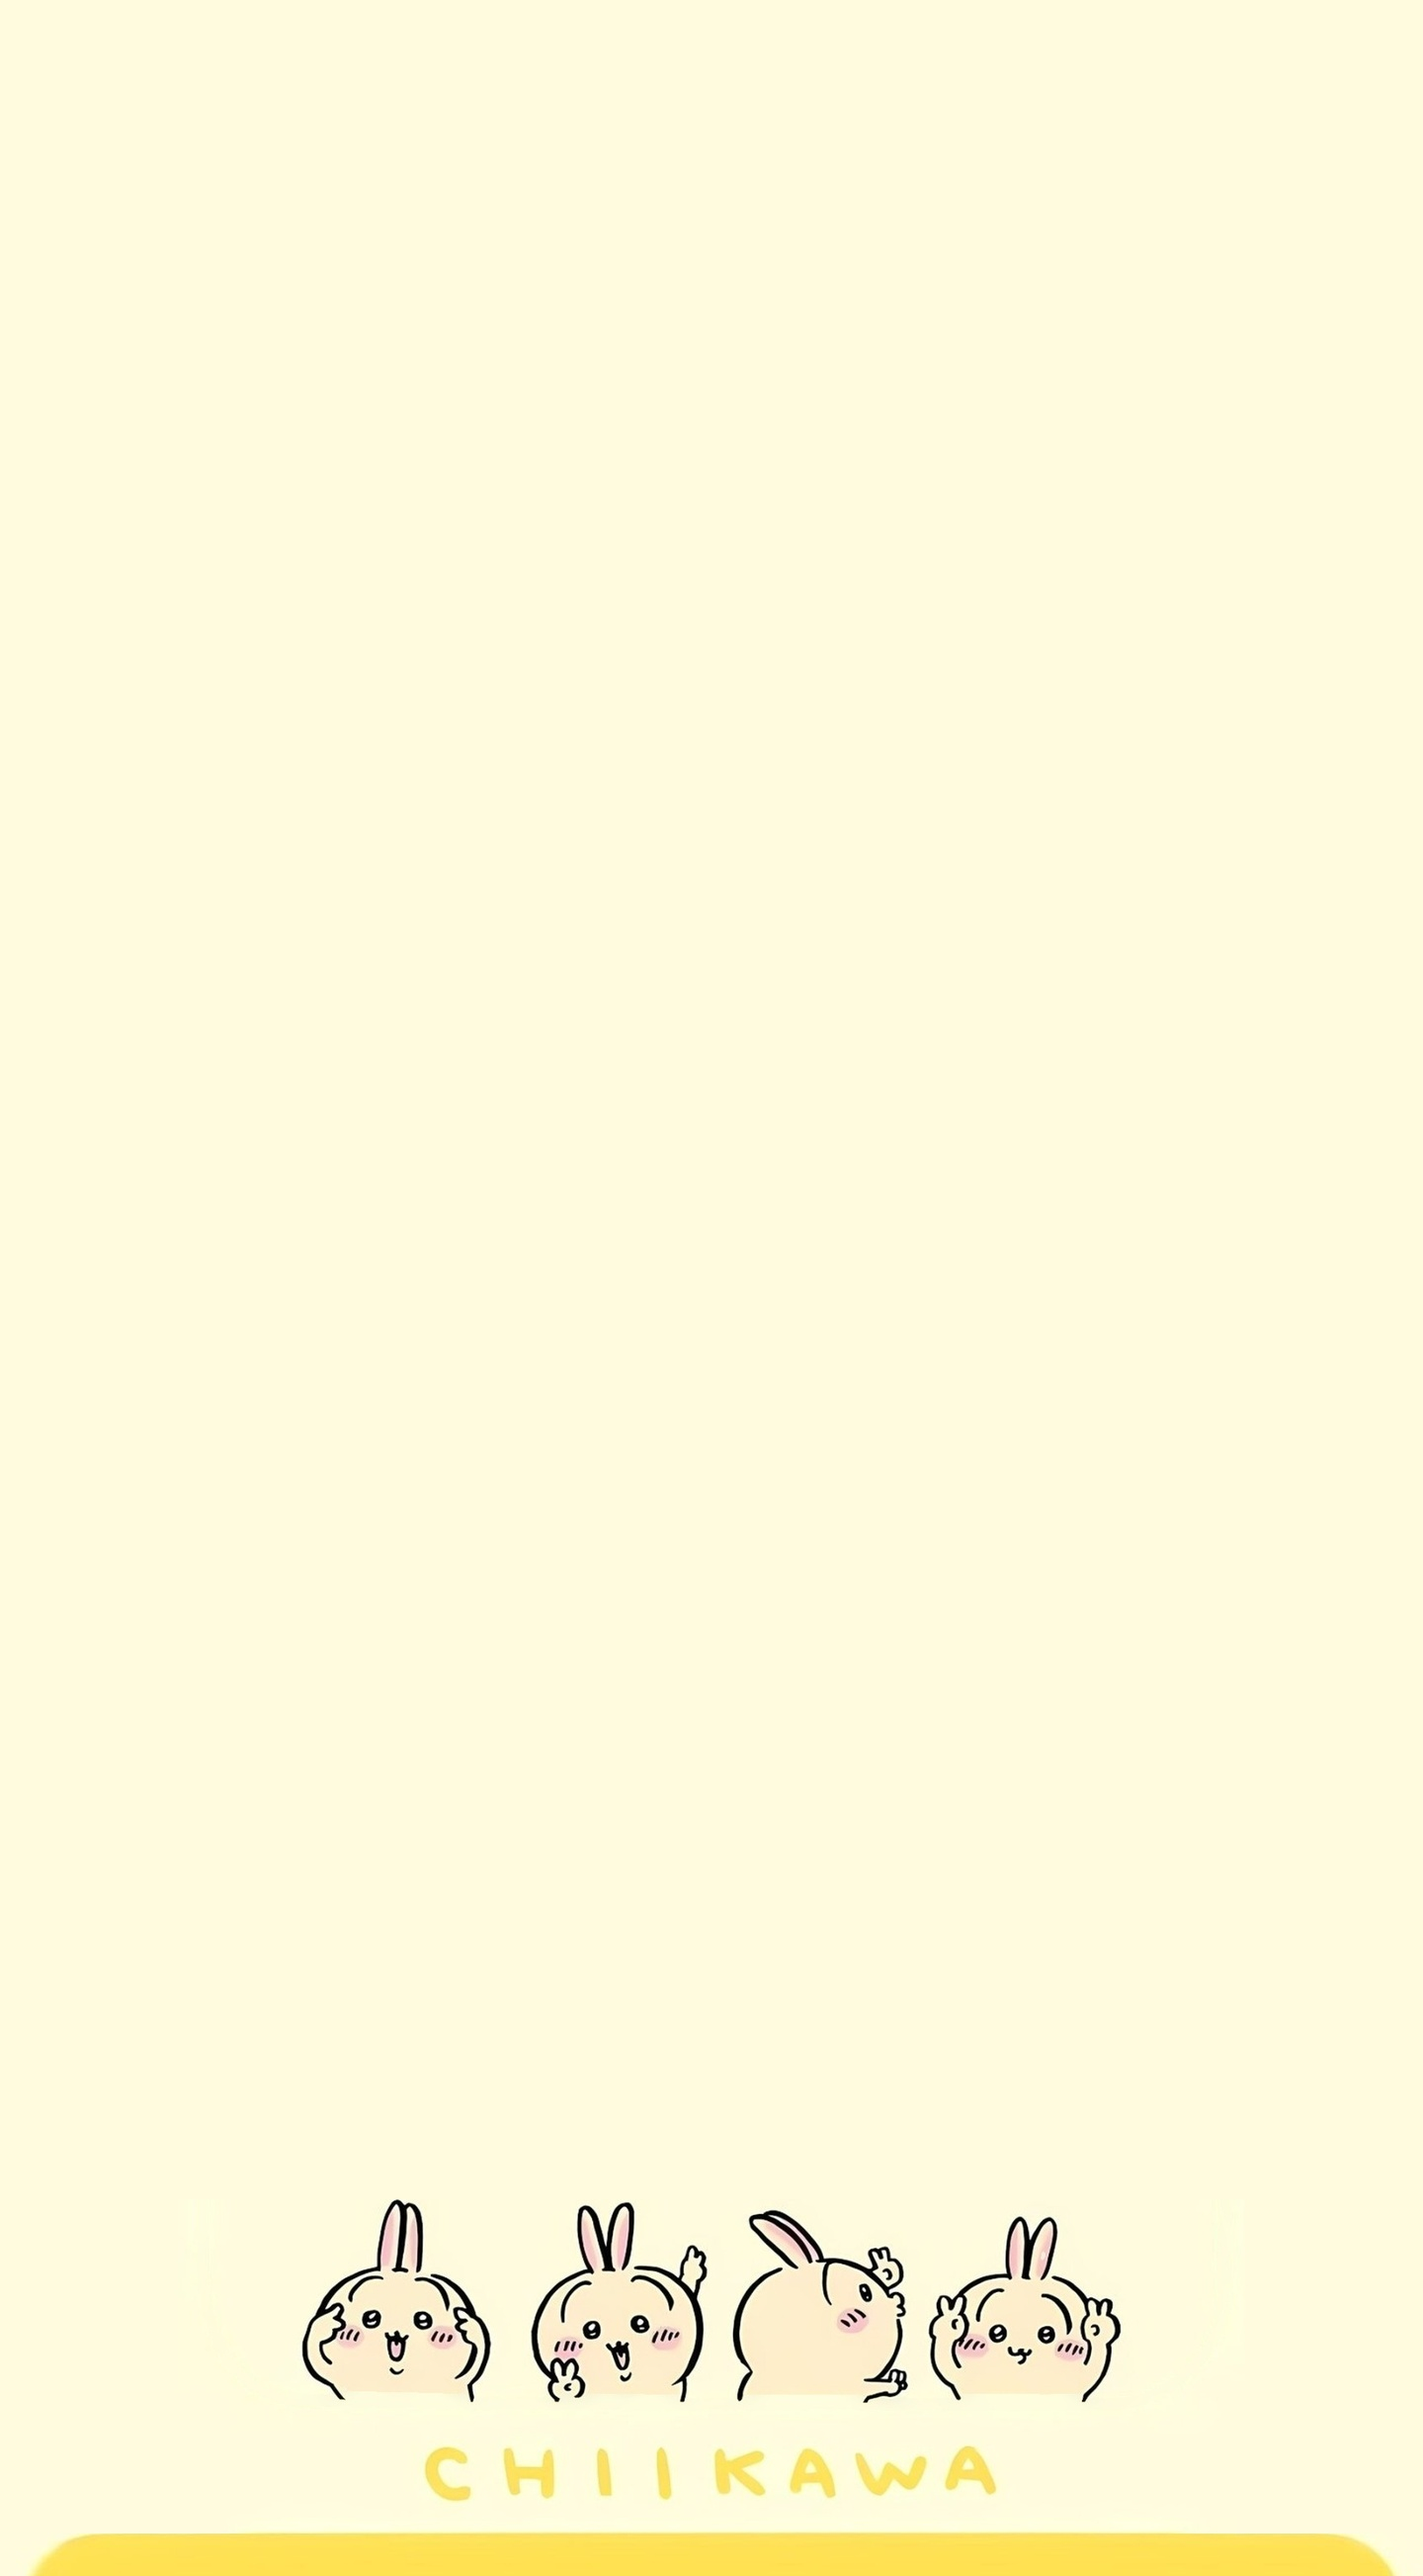
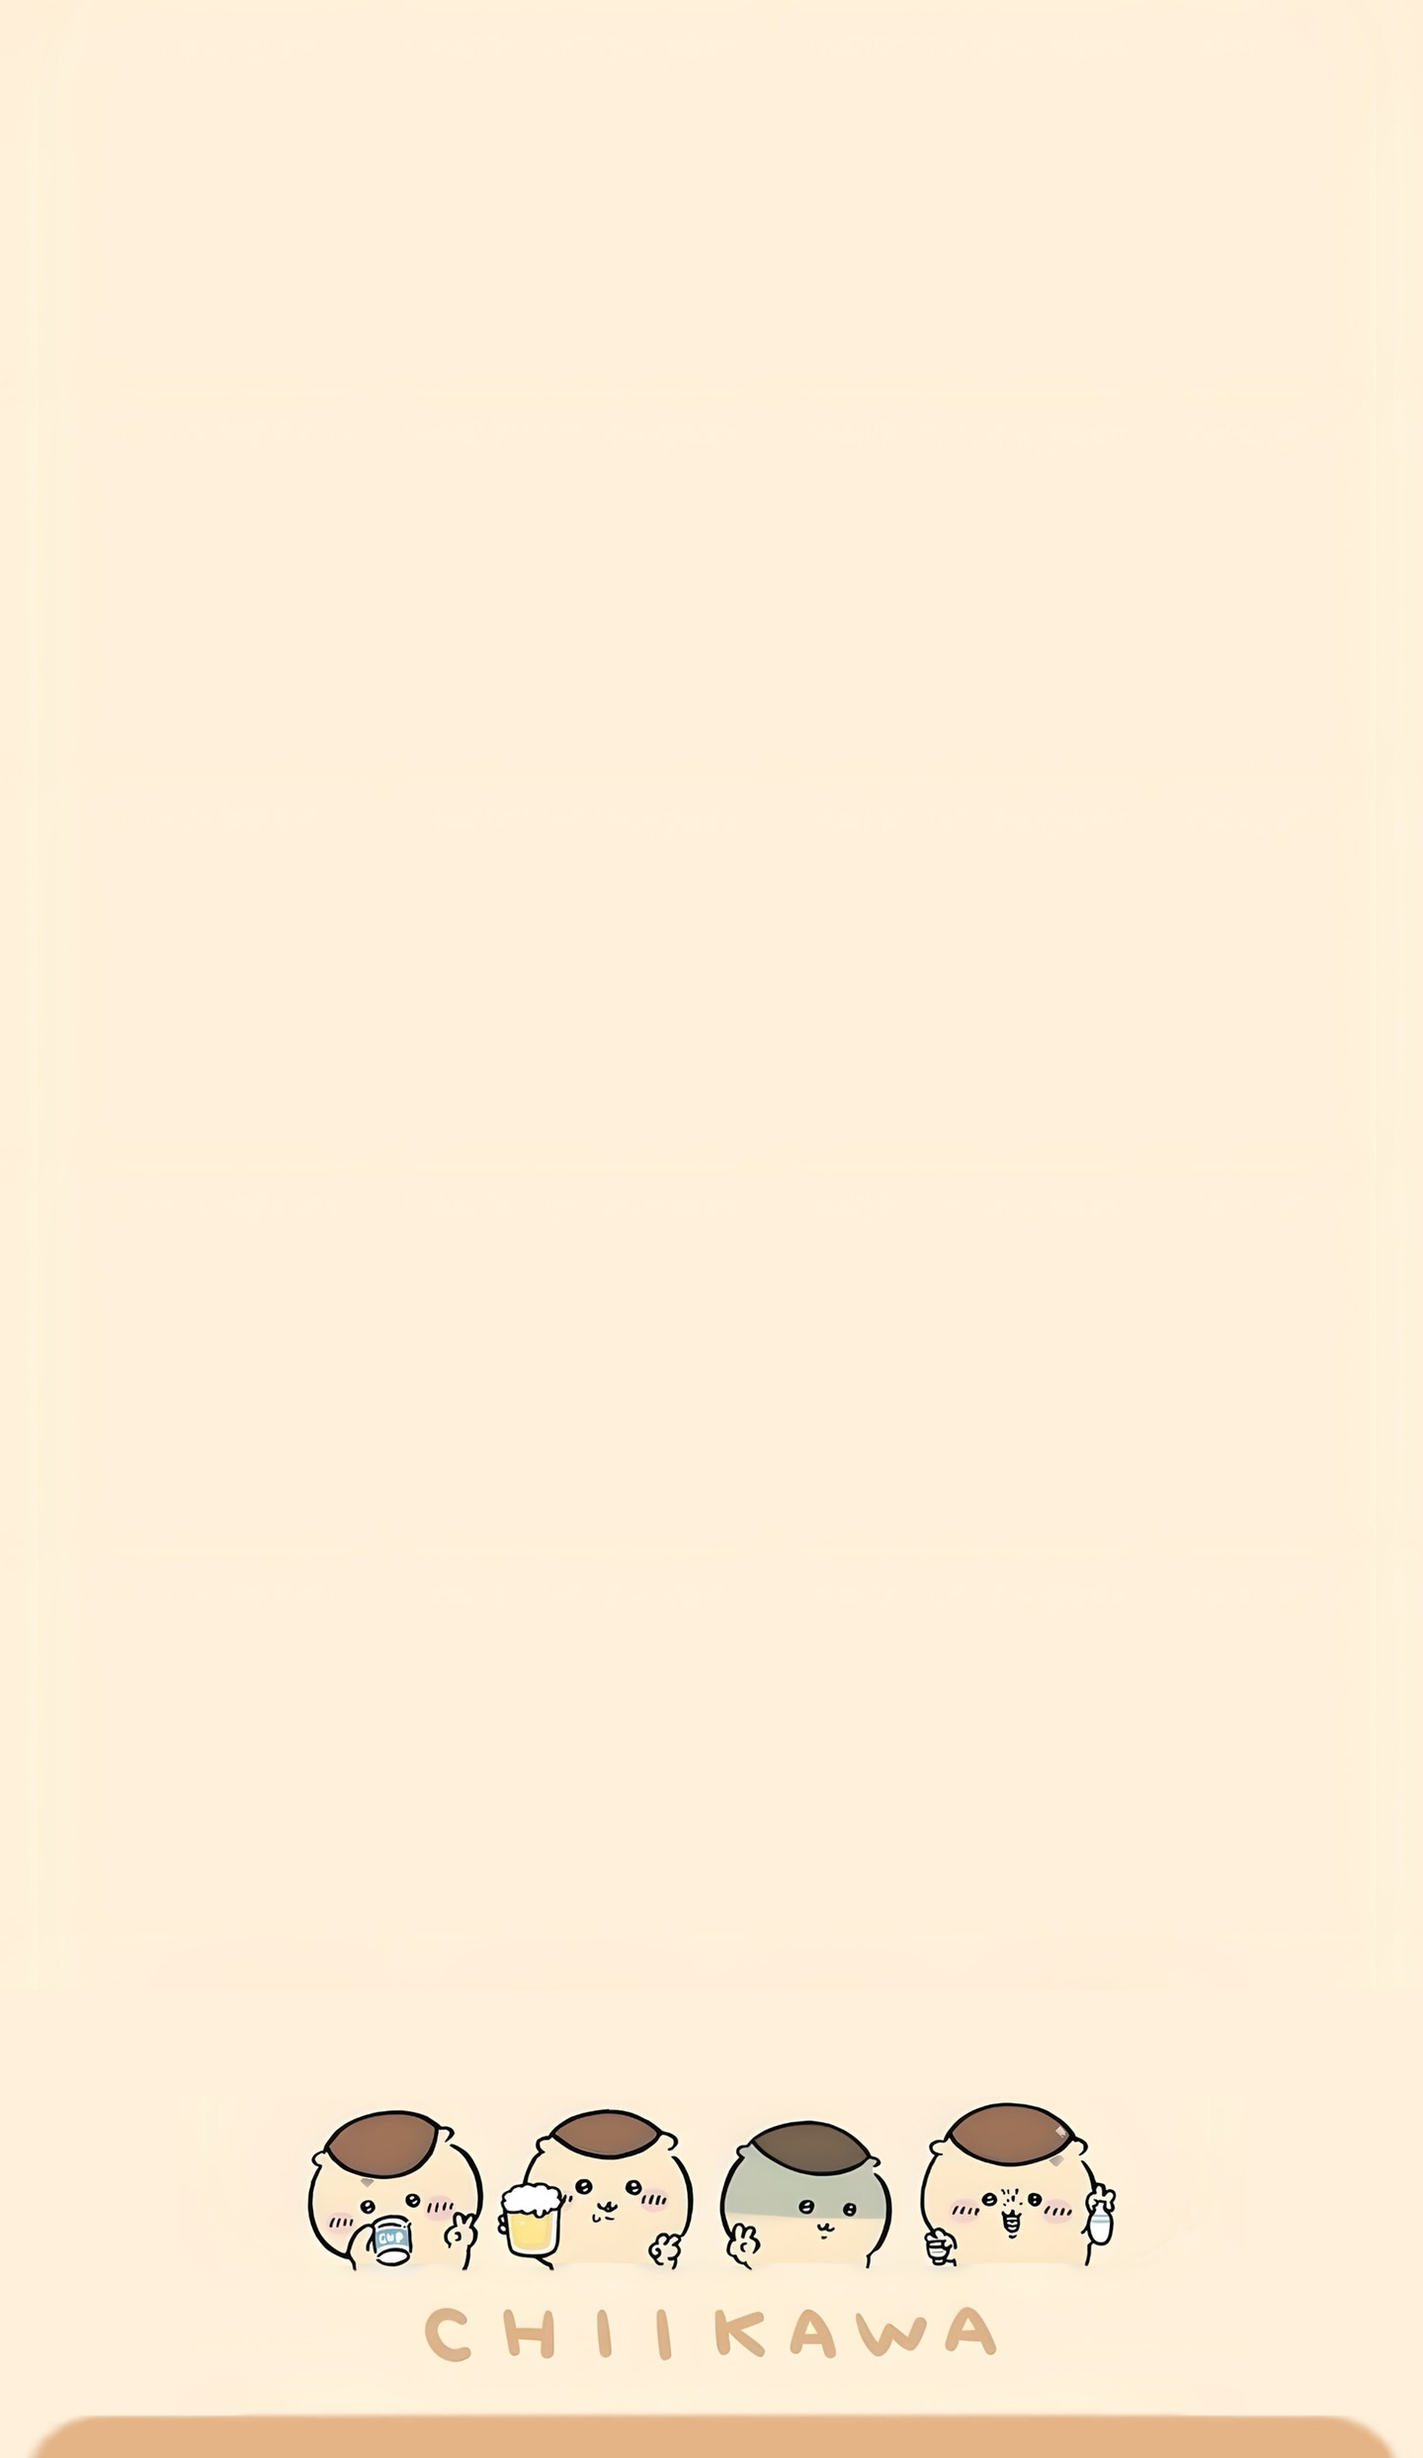
쿠리만쥬 테마: 첫 화면·목록 배경·채팅방 배경 교체, 크림·밤색 팔레트 적용
Claude-Session: https://claude.ai/code/session_01LwbuasUuUkD9mihd6ZAb4P

Changed region(s): [[0.0, 0.8363, 1.0, 1.0]]

diff --git a/scripts/apply_images.py b/scripts/apply_images.py
@@ -71,7 +71,12 @@ for key, targets in FULL.items():
         continue
     src = load(p)
     for folder, w, h in targets:
-        if key == "background":
+        if key == "splash" and w > h:
+            # 가로 화면 첫 화면: 잘리지 않게 세로 그림을 가운데 두고 양옆은 가장자리 색으로 채움
+            img = Image.new("RGBA", (w, h), src.convert("RGB").getpixel((5, 5)) + (255,))
+            fit = ImageOps.contain(src, (w, h), Image.LANCZOS)
+            img.alpha_composite(fit, ((w - fit.width) // 2, (h - fit.height) // 2))
+        elif key == "background":
             # 카톡은 목록 배경을 화면 너비에 맞추고 하단(탭 바 위)에 붙여서 보여줌 → 비율 유지
             img = src.resize((w, round(w * src.height / src.width)), Image.LANCZOS)
         else:
@@ -118,7 +123,7 @@ for n in range(1, 5):
 p = find("app_icon")
 if p:
     src = load(p)
-    ICON_BG = (255, 247, 220, 255)  # 투명한 부분을 채울 아이콘 배경색 (크림)
+    ICON_BG = (255, 240, 219, 255)  # 투명한 부분을 채울 아이콘 배경색 (크림 베이지)
     for dens, s in (("mdpi", 48), ("hdpi", 72), ("xhdpi", 96), ("xxhdpi", 144), ("xxxhdpi", 192)):
         sq = Image.new("RGBA", (s, s), ICON_BG)
         sq.alpha_composite(contain(src, s, 0.86))
@@ -144,8 +149,8 @@ if p:
 BUBBLE_DIR = "drawable-xxhdpi"
 B_R = 54            # 모서리 둥글기 (px, xxhdpi)
 B_LW = 6            # 테두리 두께
-B_LINE = {"me": (217, 169, 58, 255), "you": (217, 197, 154, 255)}  # 기존 테두리 색
-B_FILL = {"me": (255, 217, 106, 255), "you": (255, 255, 255, 255)}
+B_LINE = {"me": (217, 168, 119, 255), "you": (232, 214, 192, 255)}  # 밤색·베이지 테두리
+B_FILL = {"me": (240, 210, 170, 255), "you": (255, 255, 255, 255)}
 B_W, B_H = 2 * B_R + 24, 2 * B_R + 30   # 말풍선 본체 크기 (최소 크기)
 CH = 90             # 캐릭터 크기
 CH_OUT = 54         # 캐릭터가 말풍선 밖으로 나가는 폭
